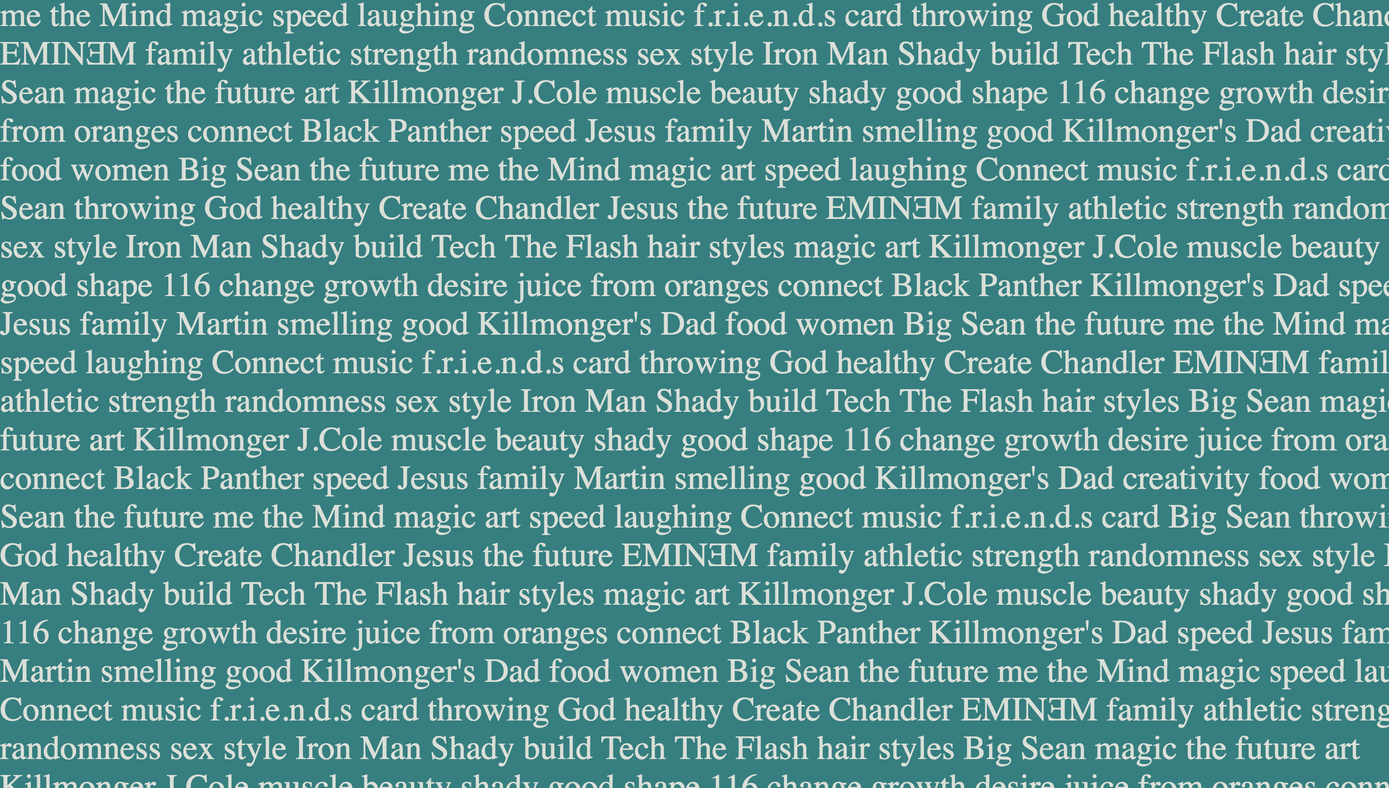
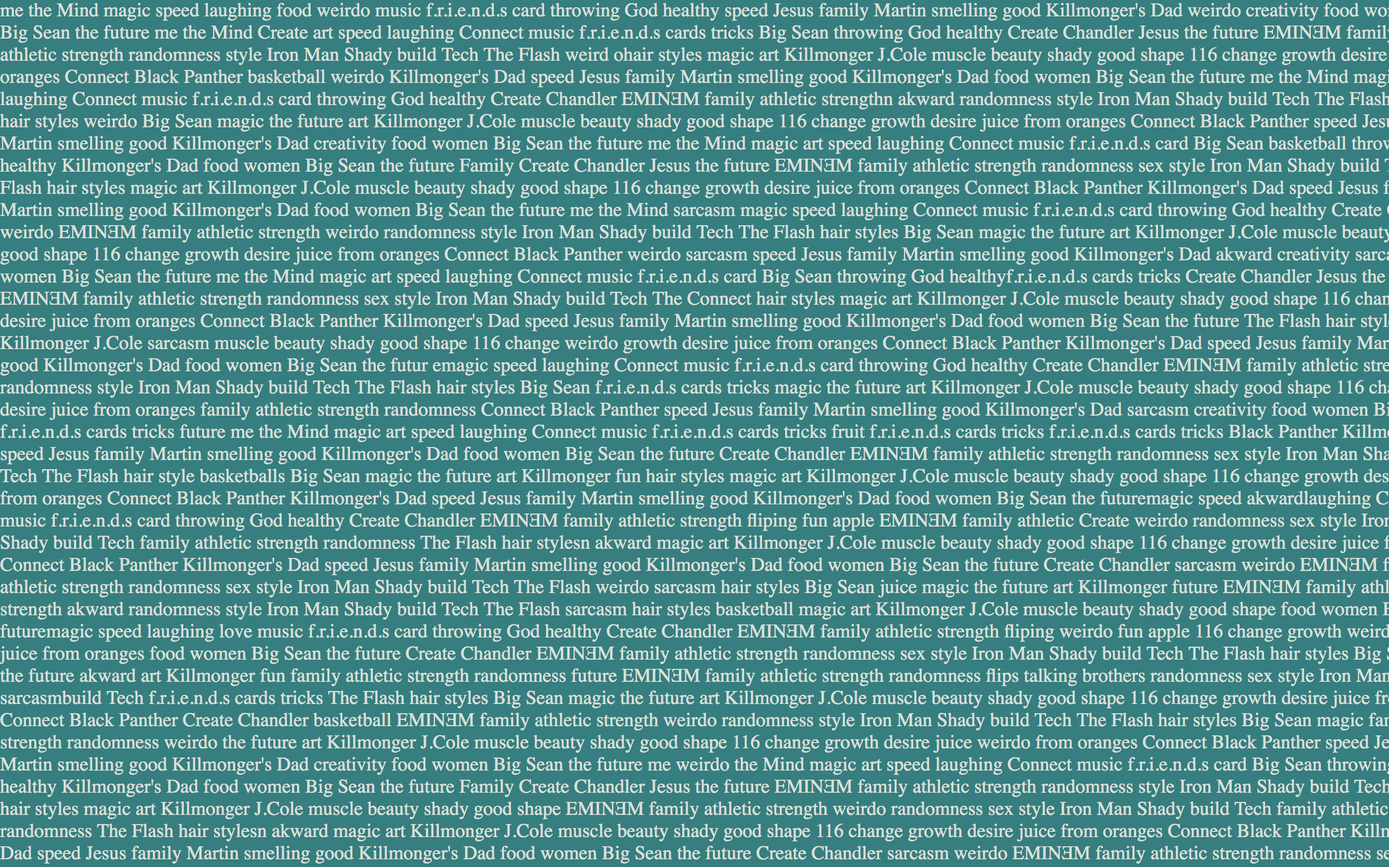
changed background image for about page

diff --git a/words.html b/words.html
@@ -10,70 +10,76 @@
 
     <div class="me">
       <p>
-        me the Mind magic speed laughing Connect music f.r.i.e.n.d.s card throwing God healthy
+        me the Mind magic speed laughing food weirdo music f.r.i.e.n.d.s card throwing God healthy
         speed Jesus family Martin smelling good
-        Killmonger's Dad creativity food women Big Sean the future me the Mind magic art speed laughing Connect music
-        f.r.i.e.n.d.s card Big Sean throwing God healthy
-        Create Chandler Jesus the future EMINƎM family athletic strength randomness sex style Iron Man Shady build Tech
-        The Flash hair styles magic art Killmonger J.Cole muscle beauty shady good shape
-        116 change growth desire juice from oranges connect Black Panther Killmonger's Dad speed Jesus family Martin smelling good
+        Killmonger's Dad weirdo creativity food women weirdo Big Sean the future me the Mind Create art speed laughing Connect music
+        f.r.i.e.n.d.s cards tricks Big Sean throwing God healthy
+        Create Chandler Jesus the future EMINƎM family akward athletic strength randomness  style Iron Man Shady build Tech
+        The Flash  weird ohair styles magic art Killmonger J.Cole muscle beauty shady good shape
+        116 change growth desire juice from oranges Connect Black Panther basketball weirdo Killmonger's Dad speed Jesus family Martin smelling good
         Killmonger's Dad food women Big Sean the future
         me the Mind magic speed laughing Connect music f.r.i.e.n.d.s card throwing God healthy
-        Create Chandler EMINƎM family athletic strength randomness sex style Iron Man Shady build Tech
-        The Flash hair styles  Big Sean  magic  the future art Killmonger J.Cole muscle beauty shady good shape
-        116 change growth desire juice from oranges connect Black Panther speed Jesus family Martin smelling good
+        Create Chandler EMINƎM family athletic strengthn akward randomness  style Iron Man Shady build Tech
+        The Flash akward hair styles weirdo Big Sean  magic  the future art Killmonger J.Cole muscle beauty shady good shape
+        116 change growth desire juice from oranges Connect Black Panther speed Jesus family Martin smelling good
         Killmonger's Dad creativity food women Big Sean the future me the Mind magic art speed laughing Connect music
-        f.r.i.e.n.d.s card Big Sean throwing God healthy Killmonger's Dad food women Big Sean the future Family
+        f.r.i.e.n.d.s card Big Sean basketball throwing God healthy Killmonger's Dad food women Big Sean the future Family
         Create Chandler Jesus the future EMINƎM family athletic strength randomness sex style Iron Man Shady build Tech
         The Flash hair styles magic art Killmonger J.Cole muscle beauty shady good shape
-        116 change growth desire juice from oranges connect Black Panther Killmonger's Dad speed Jesus family Martin smelling good
+        116 change growth desire juice from oranges Connect Black Panther Killmonger's Dad speed Jesus family Martin smelling good
         Killmonger's Dad food women Big Sean the future
-        me the Mind magic speed laughing Connect music f.r.i.e.n.d.s card throwing God healthy
-        Create Chandler EMINƎM family athletic strength randomness sex style Iron Man Shady build Tech
+        me the Mind sarcasm magic speed laughing Connect music f.r.i.e.n.d.s card throwing God healthy
+        Create Chandler weirdo EMINƎM family athletic strength  weirdo randomness  style Iron Man Shady build Tech
         The Flash hair styles  Big Sean  magic  the future art Killmonger J.Cole muscle beauty shady good shape
-        116 change growth desire juice from oranges connect Black Panther speed Jesus family Martin smelling good
-        Killmonger's Dad creativity food women Big Sean the future me the Mind magic art speed laughing Connect music
+        116 change growth desire juice from oranges Connect Black Panther  weirdo sarcasm speed Jesus family Martin smelling good
+        Killmonger's Dad akward creativity sarcasm food women Big Sean the future me the Mind magic art speed laughing Connect music
         f.r.i.e.n.d.s card Big Sean throwing God healthyf.r.i.e.n.d.s cards tricks
         Create Chandler Jesus the future EMINƎM family athletic strength randomness
-        sex style Iron Man Shady build Tech The Flash hair styles magic art Killmonger J.Cole muscle beauty shady good shape
-        116 change growth desire juice from oranges connect Black Panther Killmonger's Dad speed Jesus family Martin smelling good
+        sex style Iron Man Shady build Tech The Connect hair styles magic art Killmonger J.Cole muscle beauty shady good shape
+        116 change growth desire juice from oranges Connect Black Panther Killmonger's Dad speed Jesus family Martin smelling good
         Killmonger's Dad food women Big Sean the future
-        The Flash hair styles magic art Killmonger J.Cole muscle beauty shady good shape
-        116 change growth desire juice from oranges connect Black Panther Killmonger's Dad speed Jesus family Martin smelling good
+        The Flash hair styles magic art Killmonger J.Cole sarcasm muscle beauty shady good shape
+        116 change weirdo growth desire juice from oranges Connect Black Panther Killmonger's Dad speed Jesus family Martin smelling good
         Killmonger's Dad food women Big Sean the futur emagic speed laughing Connect music f.r.i.e.n.d.s card throwing God healthy
-        Create Chandler EMINƎM family athletic strength randomness sex style Iron Man Shady build Tech
+        Create Chandler EMINƎM family athletic strength randomness  style Iron Man Shady build Tech
         The Flash hair styles  Big Sean  f.r.i.e.n.d.s cards tricks magic  the future art Killmonger J.Cole muscle beauty shady good shape
-        116 change growth desire juice from oranges family athletic strength randomness connect Black Panther speed Jesus family Martin smelling good
-        Killmonger's Dad creativity food women Big Sean the f.r.i.e.n.d.s cards tricks
+        116 change growth desire juice from oranges family athletic strength randomness Connect Black Panther speed Jesus family Martin smelling good
+        Killmonger's Dad sarcasm creativity food women Big Sean the f.r.i.e.n.d.s cards tricks
         future me the Mind magic art speed laughing Connect music f.r.i.e.n.d.s cards tricks fruit
         f.r.i.e.n.d.s cards tricks f.r.i.e.n.d.s cards tricks Black Panther Killmonger's Dad speed Jesus family Martin smelling good
         Killmonger's Dad food women Big Sean the future Create Chandler EMINƎM family athletic strength randomness sex style Iron Man Shady build Tech
-        The Flash hair styles  Big Sean  magic  the future art Killmonger fun
+        The Flash hair style basketballs  Big Sean  magic  the future art Killmonger fun
         hair styles magic art Killmonger J.Cole muscle beauty shady good shape
-        116 change growth desire juice from oranges connect Black Panther Killmonger's Dad speed Jesus family Martin smelling good
-        Killmonger's Dad food women Big Sean the futuremagic speed laughing Connect music f.r.i.e.n.d.s card throwing God healthy
+        116 change growth desire juice from oranges Connect Black Panther Killmonger's Dad speed Jesus family Martin smelling good
+        Killmonger's Dad food women Big Sean the futuremagic speed  akwardlaughing Connect music f.r.i.e.n.d.s card throwing God healthy
         Create Chandler EMINƎM family athletic strength fliping fun apple
-        EMINƎM family athletic strength randomness sex style Iron Man Shady build Tech family athletic strength randomness
-        The Flash hair styles magic art Killmonger J.Cole muscle beauty shady good shape
-        116 change growth desire juice from oranges connect Black Panther Killmonger's Dad speed Jesus family Martin smelling good
-        Killmonger's Dad food women Big Sean the future Create Chandler EMINƎM family athletic strength randomness sex style Iron Man Shady build Tech
-        The Flash hair styles  Big Sean juice  magic  the future art Killmonger
-        future EMINƎM family athletic strength randomness sex style Iron Man Shady build Tech
-        The Flash hair styles magic art Killmonger J.Cole muscle beauty shady good shape food women Big Sean the futuremagic speed laughing Connect music f.r.i.e.n.d.s card throwing God healthy
-        Create Chandler EMINƎM family athletic strength fliping fun apple
-        116 change growth desire juice from oranges food women Big Sean the future Create Chandler EMINƎM family athletic strength randomness sex style Iron Man Shady build Tech
-        The Flash hair styles  Big Sean  magic  the future art Killmonger fun family athletic strength randomness
+        EMINƎM family athletic Create weirdo randomness sex style Iron Man Shady build Tech family athletic strength randomness
+        The Flash hair stylesn akward magic art Killmonger J.Cole muscle beauty shady good shape
+        116 change growth desire juice from oranges Connect Black Panther Killmonger's Dad speed Jesus family Martin smelling good
+        Killmonger's Dad food women Big Sean the future Create Chandler sarcasm weirdo EMINƎM family athletic strength randomness sex style Iron Man Shady build Tech
+        The Flash weirdo  sarcasm hair styles  Big Sean juice  magic  the future art Killmonger
+        future EMINƎM family athletic weirdo strength akward randomness  style Iron Man Shady build Tech
+        The Flash sarcasm hair styles basketball magic art Killmonger J.Cole muscle beauty shady good shape food women Big Sean the futuremagic speed laughing love music f.r.i.e.n.d.s card throwing God healthy
+        Create Chandler EMINƎM family athletic strength fliping weirdo fun apple
+        116 change growth weirdo desire juice from oranges food women Big Sean the future Create Chandler EMINƎM family athletic strength randomness sex style Iron Man Shady build Tech
+        The Flash hair styles  Big Sean  magic  the future akward art Killmonger fun family athletic strength randomness
         future EMINƎM family athletic strength randomness flips talking brothers
-        randomness sex style Iron Man Shady build Tech f.r.i.e.n.d.s cards tricks
+        randomness sex style Iron Man Shady  sarcasmbuild Tech f.r.i.e.n.d.s cards tricks
         The Flash hair styles  Big Sean  magic  the future art Killmonger J.Cole muscle beauty shady good shape
-        116 change growth desire juice from oranges connect Black Panther
-        Create Chandler EMINƎM family athletic strength randomness sex style Iron Man Shady build Tech
-        The Flash hair styles  Big Sean  magic family athletic strength randomness the future art Killmonger J.Cole muscle beauty shady good shape
-        116 change growth desire juice from oranges connect Black Panther speed Jesus family Martin smelling good
-        Killmonger's Dad creativity food women Big Sean the future me the Mind magic art speed laughing Connect music
+        116 change growth desire juice from oranges Connect Black Panther
+        Create Chandler basketball EMINƎM family athletic strength weirdo randomness  style Iron Man Shady build Tech
+        The Flash hair styles  Big Sean  magic family athletic strength randomness weirdo the future art Killmonger J.Cole muscle beauty shady good shape
+        116 change growth desire juice weirdo from oranges Connect Black Panther speed Jesus family Martin smelling good
+        Killmonger's Dad creativity food women Big Sean the future me weirdo the Mind magic art speed laughing Connect music
         f.r.i.e.n.d.s card Big Sean throwing God healthy Killmonger's Dad food women Big Sean the future Family
-        Create Chandler Jesus the future EMINƎM family athletic strength randomness sex style Iron Man Shady build Tech
+        Create Chandler Jesus the future EMINƎM family athletic strength randomness  style Iron Man Shady build Tech
         The Flash hair styles magic art Killmonger J.Cole muscle beauty shady good shape
+        EMINƎM family athletic strength weirdo randomness sex style Iron Man Shady build Tech family athletic strength randomness
+        The Flash hair stylesn akward magic art Killmonger J.Cole muscle beauty shady good shape
+        116 change growth desire juice from oranges Connect Black Panther Killmonger's Dad speed Jesus family Martin smelling good
+        Killmonger's Dad food women Big Sean the future Create Chandler sarcasm weirdo EMINƎM family athletic strength randomness sex style Iron Man Shady build Tech
+        The Flash weirdo  sarcasm hair styles  Big Sean juice  magic  the future art Killmonger
+        future EMINƎM family athletic weirdo
       </p>
     </div>
 

diff --git a/about.html b/about.html
@@ -16,7 +16,7 @@
         <!-- navbar -->
         <div class="navbar">
             <a href="index.html"><li>Home</li>  </a>
-            <a id="active" href="about.html"><li>About Me</li>  </a>
+            <a id="active" href="#x"><li>About Me</li>  </a>
             <a href="contact.html"><li>Contact</li>  </a>
         </div>
       </header>
@@ -26,7 +26,9 @@
           <h3>Create & Connect</h3>
         </div>
           <div class="content left">
-            <!-- Lorem ipsum dolor sit amet, consectetur adipisicing elit, sed do eiusmod tempor incididunt ut labore et dolore magna aliqua. Ut enim ad minim veniam, quis nostrud exercitation ullamco laboris nisi ut aliquip ex ea commodo consequat. Duis aute irure dolor in reprehenderit in voluptate velit esse cillum dolore eu fugiat nulla pariatur. Excepteur sint occaecat cupidatat non proident, sunt in culpa qui officia deserunt mollit anim id est laborum. -->
+            <p>
+              I'm a lot
+            </p>
             <br>
             <br>
             <!-- Lorem ipsum dolor sit amet, consectetur adipisicing elit, sed do eiusmod tempor incididunt ut labore et dolore magna aliqua. Ut enim ad minim veniam, quis nostrud exercitation ullamco laboris nisi ut aliquip ex ea commodo consequat. Duis aute irure dolor in reprehenderit in voluptate velit esse cillum dolore eu fugiat nulla pariatur. Excepteur sint occaecat cupidatat non proident, sunt in culpa qui officia deserunt mollit anim id est laborum. -->

diff --git a/css/about.css b/css/about.css
@@ -4,8 +4,7 @@
 }
 
 body {
-    background-color: teal;
-
+  background-image: url("../img/me.png");
 }
 
 /* header and navbar */
@@ -19,8 +18,10 @@ header{
   grid-template-columns: 1fr 1fr;
   display: grid;
   border-bottom: 3px solid;
-  height: 55px;
-  margin-top: 2%
+  background-color: teal;
+  height: 60px;
+  /* margin-top: ; */
+  padding-top: 2%;
 }
 
 #rl{
@@ -100,6 +101,11 @@ li{
 .right{
   width: 300px;
   margin-left: 12%;
+}
+
+
+.test:hover{
+  /* height: ; */
 }
 
 @keyframes createBox {

diff --git a/css/index.css b/css/index.css
@@ -21,6 +21,8 @@ header{
 
 a{
   text-decoration: none;
+  width: 40%;
+  border: 2px solid orange;
 }
 
 #rl{
@@ -34,6 +36,8 @@ a{
   height: auto;
   font-size: 50vh;
   font-family: 'Indie Flower', cursive;
+  border: 2px solid;
+  width: 60%;
 }
 
 span{

diff --git a/words.css b/words.css
@@ -18,6 +18,10 @@ p{
   color: rgb(218, 223, 215);
 }
 
+ /* .create, .connect{
+  color: black;
+} */
+
 /* p .chandler{
   color: red;
   -ms-transform: rotate(40deg); /* IE 9
